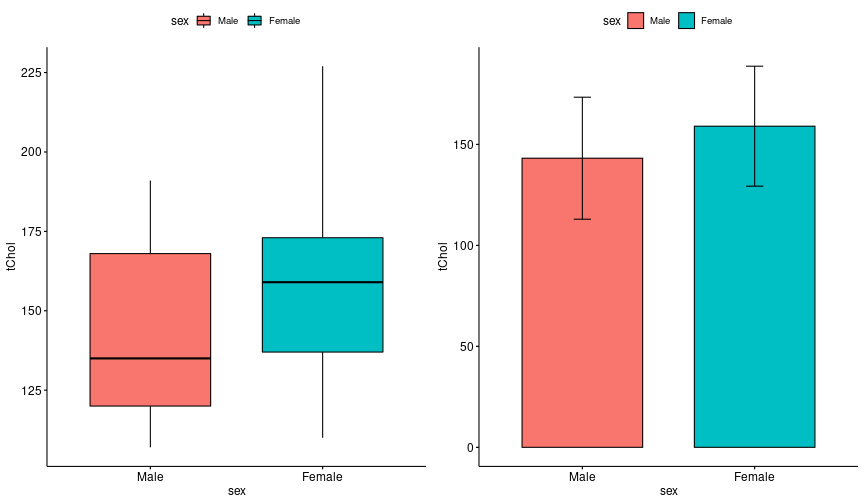
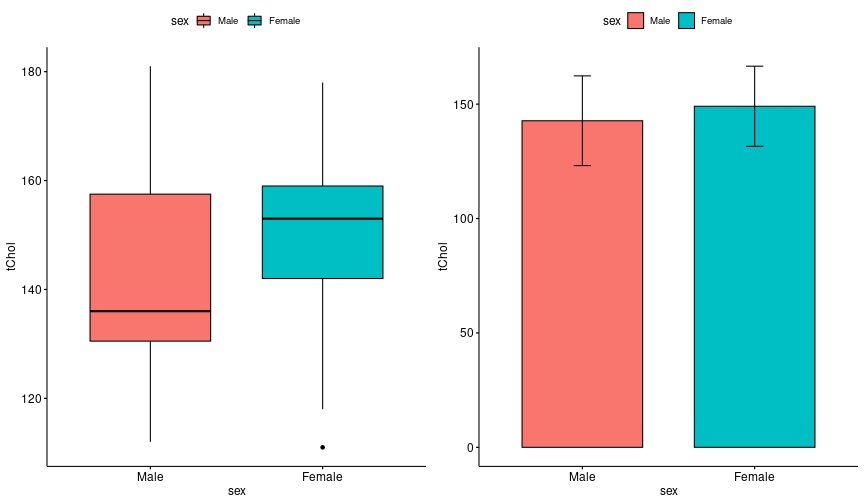
update

diff --git a/docs/statreview/index.html b/docs/statreview/index.html
@@ -139,9 +139,36 @@ class: center, middle
 SCI 논문 200건 지원
 ]
 &lt;center&gt;
-&lt;img src="https://jinseob2kim.github.io/lecture-general/cdmkdh/paper.jpg" width=50%&gt;&lt;/a&gt;
+&lt;img src="paper.png" width=80%&gt;&lt;/a&gt;
 &lt;/center&gt;
 
+---
+# R&amp;D, 지원사업 
+
+.large[
+- 창업도약패키지 
+
+- 과기정통부 R&amp;D: 공개SW 통계패키지 개발
+
+- 심평원 CDM 변환용역
+
+]
+
+
+---
+# R&amp;D: stargarten
+
+.large[
+총괄책임자
+
+- with 파이디지털헬스케어, 앤틀러
+
+]
+
+&lt;center&gt;
+&lt;img src="https://jinseob2kim.github.io/lecture-general/APPFGH2022/statgarten.png
+" width=80%&gt;&lt;/a&gt;
+&lt;/center&gt;
 
 
 ---
@@ -179,8 +206,8 @@ https://www.evanmiller.org/ab-testing/t-test.html 에서 바로 가능.
 
 ---
 
-<div id="htmlwidget-748c9da295c3f9edbd53" style="width:100%;height:auto;" class="datatables html-widget"></div>
-<script type="application/json" data-for="htmlwidget-748c9da295c3f9edbd53">{"x":{"filter":"none","vertical":false,"caption":"<caption>data.t: sex and total cholesterol<\/caption>","data":[["person 1","person 2","person 3","person 4","person 5","person 6","person 7","person 8","person 9","person 10","person 11","person 12","person 13","person 14","person 15","person 16","person 17","person 18","person 19","person 20","person 21","person 22","person 23","person 24","person 25","person 26","person 27","person 28","person 29","person 30"],["Male","Male","Female","Female","Male","Male","Female","Male","Female","Female","Female","Male","Female","Female","Female","Female","Female","Female","Male","Female","Male","Female","Male","Male","Male","Male","Male","Female","Female","Female"],[120,191,137,227,168,107,159,145,182,188,173,173,162,137,110,127,153,168,134,161,123,144,187,107,162,109,135,131,140,204]],"container":"<table class=\"display\">\n  <thead>\n    <tr>\n      <th> <\/th>\n      <th>sex<\/th>\n      <th>tChol<\/th>\n    <\/tr>\n  <\/thead>\n<\/table>","options":{"columnDefs":[{"className":"dt-right","targets":2},{"orderable":false,"targets":0}],"order":[],"autoWidth":false,"orderClasses":false}},"evals":[],"jsHooks":[]}</script>
+<div id="htmlwidget-43b0385de334835fd170" style="width:100%;height:auto;" class="datatables html-widget"></div>
+<script type="application/json" data-for="htmlwidget-43b0385de334835fd170">{"x":{"filter":"none","vertical":false,"caption":"<caption>data.t: sex and total cholesterol<\/caption>","data":[["person 1","person 2","person 3","person 4","person 5","person 6","person 7","person 8","person 9","person 10","person 11","person 12","person 13","person 14","person 15","person 16","person 17","person 18","person 19","person 20","person 21","person 22","person 23","person 24","person 25","person 26","person 27","person 28","person 29","person 30"],["Male","Male","Female","Male","Male","Female","Female","Female","Female","Female","Female","Female","Male","Female","Male","Female","Male","Female","Male","Female","Female","Male","Male","Male","Female","Male","Male","Male","Male","Female"],[112,125,153,127,135,140,137,150,118,155,163,178,116,156,135,111,134,158,154,166,144,181,164,164,160,152,161,145,136,147]],"container":"<table class=\"display\">\n  <thead>\n    <tr>\n      <th> <\/th>\n      <th>sex<\/th>\n      <th>tChol<\/th>\n    <\/tr>\n  <\/thead>\n<\/table>","options":{"columnDefs":[{"className":"dt-right","targets":2},{"orderable":false,"targets":0}],"order":[],"autoWidth":false,"orderClasses":false}},"evals":[],"jsHooks":[]}</script>
 
 ---
 
@@ -195,17 +222,17 @@ nev.ttest
 ## 	Welch Two Sample t-test
 ## 
 ## data:  tChol by sex
-## t = 1.4342, df = 25.743, p-value = 0.1635
+## t = 0.93323, df = 27.646, p-value = 0.3588
 ## alternative hypothesis: true difference in means between group Female and group Male is not equal to 0
 ## 95 percent confidence interval:
-##  -6.875538 38.567845
+##  -7.576188 20.242854
 ## sample estimates:
 ## mean in group Female   mean in group Male 
-##             159.0000             143.1538
+##             149.0667             142.7333
 ```
 
 .large[
-여자의 평균 콜레스테롤 값은 159, 남자는 143.2 이고 `\(p\)`-value는 0.164  
+여자의 평균 콜레스테롤 값은 149.1, 남자는 142.7 이고 `\(p\)`-value는 0.359  
 
 ]
 
@@ -225,17 +252,17 @@ ev.ttest
 ## 	Two Sample t-test
 ## 
 ## data:  tChol by sex
-## t = 1.4376, df = 28, p-value = 0.1616
+## t = 0.93323, df = 28, p-value = 0.3587
 ## alternative hypothesis: true difference in means between group Female and group Male is not equal to 0
 ## 95 percent confidence interval:
-##  -6.732062 38.424370
+##  -7.568171 20.234837
 ## sample estimates:
 ## mean in group Female   mean in group Male 
-##             159.0000             143.1538
+##             149.0667             142.7333
 ```
 
 
-앞서는 **Welch t-test** 였는데 이름이 바뀐 것을 확인할 수 있고 `\(p\)`-value도 0.162로 다름. 
+앞서는 **Welch t-test** 였는데 이름이 바뀐 것을 확인할 수 있고 `\(p\)`-value도 0.359로 다름. 
 - 특별한 경우가 아니고서야 위험한 등분산가정을 할 필요가 없음.   
 
 - **R** 에서 디폴트도 `F` 임.
@@ -291,7 +318,7 @@ res.wilcox
 ## 	Wilcoxon rank sum test with continuity correction
 ## 
 ## data:  tChol by sex
-## W = 142.5, p-value = 0.1871
+## W = 138, p-value = 0.2997
 ## alternative hypothesis: true location shift is not equal to 0
 ```
 
@@ -321,8 +348,8 @@ res.wilcox
 
 ---
 
-<div id="htmlwidget-b308ca5761c5125791c1" style="width:100%;height:auto;" class="datatables html-widget"></div>
-<script type="application/json" data-for="htmlwidget-b308ca5761c5125791c1">{"x":{"filter":"none","vertical":false,"caption":"<caption>data.t: group and total cholesterol<\/caption>","data":[["person 1","person 2","person 3","person 4","person 5","person 6","person 7","person 8","person 9","person 10","person 11","person 12","person 13","person 14","person 15","person 16","person 17","person 18","person 19","person 20","person 21","person 22","person 23","person 24","person 25","person 26","person 27","person 28","person 29","person 30"],["C","C","C","B","C","B","B","B","C","A","B","B","A","B","C","A","C","C","A","A","A","A","C","B","C","B","A","B","C","B"],[148,126,128,144,140,117,147,182,146,115,125,171,140,111,132,146,177,145,160,53,127,159,113,163,174,145,187,122,162,162]],"container":"<table class=\"display\">\n  <thead>\n    <tr>\n      <th> <\/th>\n      <th>group<\/th>\n      <th>tChol<\/th>\n    <\/tr>\n  <\/thead>\n<\/table>","options":{"columnDefs":[{"className":"dt-right","targets":2},{"orderable":false,"targets":0}],"order":[],"autoWidth":false,"orderClasses":false}},"evals":[],"jsHooks":[]}</script>
+<div id="htmlwidget-53086e0eb8b7b12d7d90" style="width:100%;height:auto;" class="datatables html-widget"></div>
+<script type="application/json" data-for="htmlwidget-53086e0eb8b7b12d7d90">{"x":{"filter":"none","vertical":false,"caption":"<caption>data.t: group and total cholesterol<\/caption>","data":[["person 1","person 2","person 3","person 4","person 5","person 6","person 7","person 8","person 9","person 10","person 11","person 12","person 13","person 14","person 15","person 16","person 17","person 18","person 19","person 20","person 21","person 22","person 23","person 24","person 25","person 26","person 27","person 28","person 29","person 30"],["C","C","C","B","C","B","B","B","C","A","B","B","A","B","C","A","C","C","A","A","A","A","C","B","C","B","A","B","C","B"],[148,126,128,144,140,117,147,182,146,115,125,171,140,111,132,146,177,145,160,53,127,159,113,163,174,145,187,122,162,162]],"container":"<table class=\"display\">\n  <thead>\n    <tr>\n      <th> <\/th>\n      <th>group<\/th>\n      <th>tChol<\/th>\n    <\/tr>\n  <\/thead>\n<\/table>","options":{"columnDefs":[{"className":"dt-right","targets":2},{"orderable":false,"targets":0}],"order":[],"autoWidth":false,"orderClasses":false}},"evals":[],"jsHooks":[]}</script>
 
 ---
 
@@ -419,8 +446,8 @@ class: center, middle
 
 ---
 
-<div id="htmlwidget-07b102da000a29c49717" style="width:100%;height:auto;" class="datatables html-widget"></div>
-<script type="application/json" data-for="htmlwidget-07b102da000a29c49717">{"x":{"filter":"none","vertical":false,"caption":"<caption>data.chi: HTN &amp; DM medication<\/caption>","data":[["person 1","person 2","person 3","person 4","person 5","person 6","person 7","person 8","person 9","person 10","person 11","person 12","person 13","person 14","person 15","person 16","person 17","person 18","person 19","person 20","person 21","person 22","person 23","person 24","person 25","person 26","person 27","person 28","person 29","person 30","person 31","person 32","person 33","person 34","person 35","person 36","person 37","person 38","person 39","person 40","person 41","person 42","person 43","person 44","person 45","person 46","person 47","person 48","person 49","person 50"],[1,0,0,0,1,1,0,0,0,0,0,0,0,1,1,0,1,0,0,0,1,0,0,0,0,1,1,0,0,1,0,1,0,0,0,1,1,0,0,1,1,1,1,1,0,1,1,1,0,1],[0,0,1,1,0,0,0,0,1,1,0,0,1,1,0,1,0,0,0,0,1,0,1,0,0,0,0,0,1,0,0,1,1,0,0,1,1,1,1,0,1,1,0,0,1,0,0,1,1,0]],"container":"<table class=\"display\">\n  <thead>\n    <tr>\n      <th> <\/th>\n      <th>HTN_medi<\/th>\n      <th>DM_medi<\/th>\n    <\/tr>\n  <\/thead>\n<\/table>","options":{"columnDefs":[{"className":"dt-right","targets":[1,2]},{"orderable":false,"targets":0}],"order":[],"autoWidth":false,"orderClasses":false}},"evals":[],"jsHooks":[]}</script>
+<div id="htmlwidget-68c3e8110c21981ed889" style="width:100%;height:auto;" class="datatables html-widget"></div>
+<script type="application/json" data-for="htmlwidget-68c3e8110c21981ed889">{"x":{"filter":"none","vertical":false,"caption":"<caption>data.chi: HTN &amp; DM medication<\/caption>","data":[["person 1","person 2","person 3","person 4","person 5","person 6","person 7","person 8","person 9","person 10","person 11","person 12","person 13","person 14","person 15","person 16","person 17","person 18","person 19","person 20","person 21","person 22","person 23","person 24","person 25","person 26","person 27","person 28","person 29","person 30","person 31","person 32","person 33","person 34","person 35","person 36","person 37","person 38","person 39","person 40","person 41","person 42","person 43","person 44","person 45","person 46","person 47","person 48","person 49","person 50"],[1,0,0,0,1,1,0,0,0,0,0,0,0,1,1,0,1,0,0,0,1,0,0,0,0,1,1,0,0,1,0,1,0,0,0,1,1,0,0,1,1,1,1,1,0,1,1,1,0,1],[0,0,1,1,0,0,0,0,1,1,0,0,1,1,0,1,0,0,0,0,1,0,1,0,0,0,0,0,1,0,0,1,1,0,0,1,1,1,1,0,1,1,0,0,1,0,0,1,1,0]],"container":"<table class=\"display\">\n  <thead>\n    <tr>\n      <th> <\/th>\n      <th>HTN_medi<\/th>\n      <th>DM_medi<\/th>\n    <\/tr>\n  <\/thead>\n<\/table>","options":{"columnDefs":[{"className":"dt-right","targets":[1,2]},{"orderable":false,"targets":0}],"order":[],"autoWidth":false,"orderClasses":false}},"evals":[],"jsHooks":[]}</script>
 
 
 ---
@@ -469,8 +496,8 @@ res.chi
 
 ---
 
-<div id="htmlwidget-57d7243368cde6d9a701" style="width:100%;height:auto;" class="datatables html-widget"></div>
-<script type="application/json" data-for="htmlwidget-57d7243368cde6d9a701">{"x":{"filter":"none","vertical":false,"caption":"<caption>data.fisher: HTN &amp; DM medication<\/caption>","data":[["person 1","person 2","person 3","person 4","person 5","person 6","person 7","person 8","person 9","person 10","person 11","person 12","person 13","person 14","person 15","person 16","person 17","person 18","person 19","person 20","person 21","person 22","person 23","person 24","person 25","person 26","person 27","person 28","person 29","person 30","person 31","person 32","person 33","person 34","person 35","person 36","person 37","person 38","person 39","person 40","person 41","person 42","person 43","person 44","person 45","person 46","person 47","person 48","person 49","person 50"],[1,0,0,0,1,1,0,0,0,0,0,0,0,0,1,0,0,0,0,0,1,0,0,0,0,1,0,0,0,1,0,0,0,0,0,1,0,0,0,0,0,1,0,0,0,0,1,0,0,1],[0,0,0,1,0,0,0,0,1,0,0,0,0,1,0,1,0,0,0,0,0,0,0,0,0,0,0,0,1,0,0,0,0,0,0,1,1,1,1,0,0,1,0,0,0,0,0,0,0,0]],"container":"<table class=\"display\">\n  <thead>\n    <tr>\n      <th> <\/th>\n      <th>HTN_medi<\/th>\n      <th>DM_medi<\/th>\n    <\/tr>\n  <\/thead>\n<\/table>","options":{"columnDefs":[{"className":"dt-right","targets":[1,2]},{"orderable":false,"targets":0}],"order":[],"autoWidth":false,"orderClasses":false}},"evals":[],"jsHooks":[]}</script>
+<div id="htmlwidget-7db472bf2896f2aaadd5" style="width:100%;height:auto;" class="datatables html-widget"></div>
+<script type="application/json" data-for="htmlwidget-7db472bf2896f2aaadd5">{"x":{"filter":"none","vertical":false,"caption":"<caption>data.fisher: HTN &amp; DM medication<\/caption>","data":[["person 1","person 2","person 3","person 4","person 5","person 6","person 7","person 8","person 9","person 10","person 11","person 12","person 13","person 14","person 15","person 16","person 17","person 18","person 19","person 20","person 21","person 22","person 23","person 24","person 25","person 26","person 27","person 28","person 29","person 30","person 31","person 32","person 33","person 34","person 35","person 36","person 37","person 38","person 39","person 40","person 41","person 42","person 43","person 44","person 45","person 46","person 47","person 48","person 49","person 50"],[1,0,0,0,1,1,0,0,0,0,0,0,0,0,1,0,0,0,0,0,1,0,0,0,0,1,0,0,0,1,0,0,0,0,0,1,0,0,0,0,0,1,0,0,0,0,1,0,0,1],[0,0,0,1,0,0,0,0,1,0,0,0,0,1,0,1,0,0,0,0,0,0,0,0,0,0,0,0,1,0,0,0,0,0,0,1,1,1,1,0,0,1,0,0,0,0,0,0,0,0]],"container":"<table class=\"display\">\n  <thead>\n    <tr>\n      <th> <\/th>\n      <th>HTN_medi<\/th>\n      <th>DM_medi<\/th>\n    <\/tr>\n  <\/thead>\n<\/table>","options":{"columnDefs":[{"className":"dt-right","targets":[1,2]},{"orderable":false,"targets":0}],"order":[],"autoWidth":false,"orderClasses":false}},"evals":[],"jsHooks":[]}</script>
 
 ---
 
@@ -572,8 +599,8 @@ class: center, middle
 
 
 ---
-<div id="htmlwidget-18430f66b8f801e89858" style="width:100%;height:auto;" class="datatables html-widget"></div>
-<script type="application/json" data-for="htmlwidget-18430f66b8f801e89858">{"x":{"filter":"none","vertical":false,"caption":"<caption>data.pt: systolic blood pressure measured by hand &amp; machine<\/caption>","data":[["person 1","person 2","person 3","person 4","person 5","person 6","person 7","person 8","person 9","person 10","person 11","person 12","person 13","person 14","person 15","person 16","person 17","person 18","person 19","person 20","person 21","person 22","person 23","person 24","person 25","person 26","person 27","person 28","person 29","person 30"],[128,128,120,119,124,130,127,131,127,120,119,131,129,129,125,129,126,132,123,111,125,125,119,112,129,126,125,128,125,128],[128,119,119,126,118,124,128,129,117,130,123,128,128,133,127,126,127,119,122,125,124,127,128,126,127,123,129,123,142,123]],"container":"<table class=\"display\">\n  <thead>\n    <tr>\n      <th> <\/th>\n      <th>SBP_hand<\/th>\n      <th>SBP_machine<\/th>\n    <\/tr>\n  <\/thead>\n<\/table>","options":{"columnDefs":[{"className":"dt-right","targets":[1,2]},{"orderable":false,"targets":0}],"order":[],"autoWidth":false,"orderClasses":false}},"evals":[],"jsHooks":[]}</script>
+<div id="htmlwidget-665bffd1af0a11531670" style="width:100%;height:auto;" class="datatables html-widget"></div>
+<script type="application/json" data-for="htmlwidget-665bffd1af0a11531670">{"x":{"filter":"none","vertical":false,"caption":"<caption>data.pt: systolic blood pressure measured by hand &amp; machine<\/caption>","data":[["person 1","person 2","person 3","person 4","person 5","person 6","person 7","person 8","person 9","person 10","person 11","person 12","person 13","person 14","person 15","person 16","person 17","person 18","person 19","person 20","person 21","person 22","person 23","person 24","person 25","person 26","person 27","person 28","person 29","person 30"],[128,128,120,119,124,130,127,131,127,120,119,131,129,129,125,129,126,132,123,111,125,125,119,112,129,126,125,128,125,128],[128,119,119,126,118,124,128,129,117,130,123,128,128,133,127,126,127,119,122,125,124,127,128,126,127,123,129,123,142,123]],"container":"<table class=\"display\">\n  <thead>\n    <tr>\n      <th> <\/th>\n      <th>SBP_hand<\/th>\n      <th>SBP_machine<\/th>\n    <\/tr>\n  <\/thead>\n<\/table>","options":{"columnDefs":[{"className":"dt-right","targets":[1,2]},{"orderable":false,"targets":0}],"order":[],"autoWidth":false,"orderClasses":false}},"evals":[],"jsHooks":[]}</script>
 
 
 ---
@@ -671,8 +698,8 @@ class: center, middle
 
 ---
 
-<div id="htmlwidget-1cad792f2475b0941331" style="width:100%;height:auto;" class="datatables html-widget"></div>
-<script type="application/json" data-for="htmlwidget-1cad792f2475b0941331">{"x":{"filter":"none","vertical":false,"caption":"<caption>data.mc: Abdominal pain - before &amp; after<\/caption>","data":[["person 1","person 2","person 3","person 4","person 5","person 6","person 7","person 8","person 9","person 10","person 11","person 12","person 13","person 14","person 15","person 16","person 17","person 18","person 19","person 20","person 21","person 22","person 23","person 24","person 25","person 26","person 27","person 28","person 29","person 30"],[0,1,0,0,0,1,0,0,0,0,1,1,0,1,0,1,1,0,0,0,1,1,1,0,1,1,0,1,0,1],[0,1,1,0,1,0,0,0,0,1,0,0,0,1,1,0,1,0,1,1,1,0,0,1,0,0,0,1,1,0]],"container":"<table class=\"display\">\n  <thead>\n    <tr>\n      <th> <\/th>\n      <th>Pain_before<\/th>\n      <th>Pain_after<\/th>\n    <\/tr>\n  <\/thead>\n<\/table>","options":{"columnDefs":[{"className":"dt-right","targets":[1,2]},{"orderable":false,"targets":0}],"order":[],"autoWidth":false,"orderClasses":false}},"evals":[],"jsHooks":[]}</script>
+<div id="htmlwidget-04dbed8c400977963508" style="width:100%;height:auto;" class="datatables html-widget"></div>
+<script type="application/json" data-for="htmlwidget-04dbed8c400977963508">{"x":{"filter":"none","vertical":false,"caption":"<caption>data.mc: Abdominal pain - before &amp; after<\/caption>","data":[["person 1","person 2","person 3","person 4","person 5","person 6","person 7","person 8","person 9","person 10","person 11","person 12","person 13","person 14","person 15","person 16","person 17","person 18","person 19","person 20","person 21","person 22","person 23","person 24","person 25","person 26","person 27","person 28","person 29","person 30"],[0,1,0,0,0,1,0,0,0,0,1,1,0,1,0,1,1,0,0,0,1,1,1,0,1,1,0,1,0,1],[0,1,1,0,1,0,0,0,0,1,0,0,0,1,1,0,1,0,1,1,1,0,0,1,0,0,0,1,1,0]],"container":"<table class=\"display\">\n  <thead>\n    <tr>\n      <th> <\/th>\n      <th>Pain_before<\/th>\n      <th>Pain_after<\/th>\n    <\/tr>\n  <\/thead>\n<\/table>","options":{"columnDefs":[{"className":"dt-right","targets":[1,2]},{"orderable":false,"targets":0}],"order":[],"autoWidth":false,"orderClasses":false}},"evals":[],"jsHooks":[]}</script>
 
 ---
 
@@ -960,8 +987,8 @@ ANOVA p-value 는 **rx 중 튀는 것이 있는지?** 를 통합평가.
 
 ---
 
-<div id="htmlwidget-bf1b3628490d97f3b291" style="width:100%;height:auto;" class="datatables html-widget"></div>
-<script type="application/json" data-for="htmlwidget-bf1b3628490d97f3b291">{"x":{"filter":"none","vertical":false,"caption":"<caption>Linear regression predicting time\n<\/caption>","data":[["sex","age","rx: ref.=Obs","   Lev","   Lev+5FU","","No. of observations","R-squared","AIC value"],["13.93 (-72.26,100.12)","0.38 (-3.22,3.99)",null,"24.66 (-79.49,128.82)","271.07 (166.41,375.74)","","1858","0.0169","30717.803"],["0.751","0.835",null,"0.643","&lt; 0.001","","","",""],["32.67 (-53.21,118.55)","0.37 (-3.21,3.95)",null,"22.98 (-81.3,127.27)","273.05 (168.19,377.9)","","","",""],["0.456","0.84",null,"0.666","&lt; 0.001","","","",""],["","",null,"","**",null,null,null,null]],"container":"<table class=\"display\">\n  <thead>\n    <tr>\n      <th> <\/th>\n      <th>crude coeff.(95%CI)<\/th>\n      <th>crude P value<\/th>\n      <th>adj. coeff.(95%CI)<\/th>\n      <th>adj. P value<\/th>\n      <th>sig<\/th>\n    <\/tr>\n  <\/thead>\n<\/table>","options":{"columnDefs":[{"visible":false,"targets":5},{"orderable":false,"targets":0}],"scrollX":true,"order":[],"autoWidth":false,"orderClasses":false,"rowCallback":"function(row, data, displayNum, displayIndex, dataIndex) {\nvar value=data[5]; $(row).css({'background-color':value == \"**\" ? \"yellow\" : null});\n}"}},"evals":["options.rowCallback"],"jsHooks":[]}</script>
+<div id="htmlwidget-6da6c35ebb9136bf7287" style="width:100%;height:auto;" class="datatables html-widget"></div>
+<script type="application/json" data-for="htmlwidget-6da6c35ebb9136bf7287">{"x":{"filter":"none","vertical":false,"caption":"<caption>Linear regression predicting time\n<\/caption>","data":[["sex","age","rx: ref.=Obs","   Lev","   Lev+5FU","","No. of observations","R-squared","AIC value"],["13.93 (-72.26,100.12)","0.38 (-3.22,3.99)",null,"24.66 (-79.49,128.82)","271.07 (166.41,375.74)","","1858","0.0169","30717.803"],["0.751","0.835",null,"0.643","&lt; 0.001","","","",""],["32.67 (-53.21,118.55)","0.37 (-3.21,3.95)",null,"22.98 (-81.3,127.27)","273.05 (168.19,377.9)","","","",""],["0.456","0.84",null,"0.666","&lt; 0.001","","","",""],["","",null,"","**",null,null,null,null]],"container":"<table class=\"display\">\n  <thead>\n    <tr>\n      <th> <\/th>\n      <th>crude coeff.(95%CI)<\/th>\n      <th>crude P value<\/th>\n      <th>adj. coeff.(95%CI)<\/th>\n      <th>adj. P value<\/th>\n      <th>sig<\/th>\n    <\/tr>\n  <\/thead>\n<\/table>","options":{"columnDefs":[{"visible":false,"targets":5},{"orderable":false,"targets":0}],"scrollX":true,"order":[],"autoWidth":false,"orderClasses":false,"rowCallback":"function(row, data, displayNum, displayIndex, dataIndex) {\nvar value=data[5]; $(row).css({'background-color':value == \"**\" ? \"yellow\" : null});\n}"}},"evals":["options.rowCallback"],"jsHooks":[]}</script>
 
 
 ---
@@ -1038,8 +1065,8 @@ $$
 
 ---
 
-<div id="htmlwidget-f02bac0ef65f474cea9d" style="width:100%;height:auto;" class="datatables html-widget"></div>
-<script type="application/json" data-for="htmlwidget-f02bac0ef65f474cea9d">{"x":{"filter":"none","vertical":false,"caption":"<caption>Logistic regression predicting status\n<\/caption>","data":[["sex","age","rx: ref.=Obs","   Lev","   Lev+5FU","","No. of observations","AIC value"],["0.97 (0.81,1.17)","1 (0.99,1)",null,"0.96 (0.77,1.2)","0.55 (0.44,0.68)","","1858","2549.4309"],["0.758","0.296",null,"0.709","&lt; 0.001","","",""],["0.93 (0.77,1.12)","1 (0.99,1)",null,"0.96 (0.77,1.2)","0.54 (0.43,0.68)","","",""],["0.454","0.294",null,"0.747","&lt; 0.001","","",""],["","",null,"","**",null,null,null]],"container":"<table class=\"display\">\n  <thead>\n    <tr>\n      <th> <\/th>\n      <th>crude OR.(95%CI)<\/th>\n      <th>crude P value<\/th>\n      <th>adj. OR.(95%CI)<\/th>\n      <th>adj. P value<\/th>\n      <th>sig<\/th>\n    <\/tr>\n  <\/thead>\n<\/table>","options":{"columnDefs":[{"visible":false,"targets":5},{"orderable":false,"targets":0}],"scrollX":true,"order":[],"autoWidth":false,"orderClasses":false,"rowCallback":"function(row, data, displayNum, displayIndex, dataIndex) {\nvar value=data[5]; $(row).css({'background-color':value == \"**\" ? \"yellow\" : null});\n}"}},"evals":["options.rowCallback"],"jsHooks":[]}</script>
+<div id="htmlwidget-b17a500cb2e31e832421" style="width:100%;height:auto;" class="datatables html-widget"></div>
+<script type="application/json" data-for="htmlwidget-b17a500cb2e31e832421">{"x":{"filter":"none","vertical":false,"caption":"<caption>Logistic regression predicting status\n<\/caption>","data":[["sex","age","rx: ref.=Obs","   Lev","   Lev+5FU","","No. of observations","AIC value"],["0.97 (0.81,1.17)","1 (0.99,1)",null,"0.96 (0.77,1.2)","0.55 (0.44,0.68)","","1858","2549.4309"],["0.758","0.296",null,"0.709","&lt; 0.001","","",""],["0.93 (0.77,1.12)","1 (0.99,1)",null,"0.96 (0.77,1.2)","0.54 (0.43,0.68)","","",""],["0.454","0.294",null,"0.747","&lt; 0.001","","",""],["","",null,"","**",null,null,null]],"container":"<table class=\"display\">\n  <thead>\n    <tr>\n      <th> <\/th>\n      <th>crude OR.(95%CI)<\/th>\n      <th>crude P value<\/th>\n      <th>adj. OR.(95%CI)<\/th>\n      <th>adj. P value<\/th>\n      <th>sig<\/th>\n    <\/tr>\n  <\/thead>\n<\/table>","options":{"columnDefs":[{"visible":false,"targets":5},{"orderable":false,"targets":0}],"scrollX":true,"order":[],"autoWidth":false,"orderClasses":false,"rowCallback":"function(row, data, displayNum, displayIndex, dataIndex) {\nvar value=data[5]; $(row).css({'background-color':value == \"**\" ? \"yellow\" : null});\n}"}},"evals":["options.rowCallback"],"jsHooks":[]}</script>
 
 
 ---
@@ -2068,8 +2095,8 @@ Kaplan-meier 와 마찬가지로 구간별로 통계량을 계산.
 
 ---
 
-<div id="htmlwidget-d6bdc4b2fde5b2277588" style="width:100%;height:auto;" class="datatables html-widget"></div>
-<script type="application/json" data-for="htmlwidget-d6bdc4b2fde5b2277588">{"x":{"filter":"none","vertical":false,"caption":"<caption>Cox model on time ('time') to event ('status')<\/caption>","data":[["sex","age","rx: ref.=Obs","   Lev","   Lev+5FU",null,"No. of observations","No. of events"],["0.97 (0.85,1.1)","1 (0.99,1)",null,"0.98 (0.84,1.14)","0.64 (0.55,0.76)",null,"1858","920"],["0.61","0.382",null,"0.786","&lt; 0.001",null,null,null],["0.95 (0.84,1.08)","1 (0.99,1)",null,"0.98 (0.84,1.14)","0.64 (0.55,0.76)",null,null,null],["0.446","0.468",null,"0.811","&lt; 0.001",null,null,null],[null,null,null,null,"**",null,null,null]],"container":"<table class=\"display\">\n  <thead>\n    <tr>\n      <th> <\/th>\n      <th>crude HR(95%CI)<\/th>\n      <th>crude P value<\/th>\n      <th>adj. HR(95%CI)<\/th>\n      <th>adj. P value<\/th>\n      <th>sig<\/th>\n    <\/tr>\n  <\/thead>\n<\/table>","options":{"columnDefs":[{"visible":false,"targets":5},{"orderable":false,"targets":0}],"order":[],"autoWidth":false,"orderClasses":false,"rowCallback":"function(row, data, displayNum, displayIndex, dataIndex) {\nvar value=data[5]; $(row).css({'background-color':value == \"**\" ? \"yellow\" : null});\n}"}},"evals":["options.rowCallback"],"jsHooks":[]}</script>
+<div id="htmlwidget-e82a18e79e2dac4135d2" style="width:100%;height:auto;" class="datatables html-widget"></div>
+<script type="application/json" data-for="htmlwidget-e82a18e79e2dac4135d2">{"x":{"filter":"none","vertical":false,"caption":"<caption>Cox model on time ('time') to event ('status')<\/caption>","data":[["sex","age","rx: ref.=Obs","   Lev","   Lev+5FU",null,"No. of observations","No. of events"],["0.97 (0.85,1.1)","1 (0.99,1)",null,"0.98 (0.84,1.14)","0.64 (0.55,0.76)",null,"1858","920"],["0.61","0.382",null,"0.786","&lt; 0.001",null,null,null],["0.95 (0.84,1.08)","1 (0.99,1)",null,"0.98 (0.84,1.14)","0.64 (0.55,0.76)",null,null,null],["0.446","0.468",null,"0.811","&lt; 0.001",null,null,null],[null,null,null,null,"**",null,null,null]],"container":"<table class=\"display\">\n  <thead>\n    <tr>\n      <th> <\/th>\n      <th>crude HR(95%CI)<\/th>\n      <th>crude P value<\/th>\n      <th>adj. HR(95%CI)<\/th>\n      <th>adj. P value<\/th>\n      <th>sig<\/th>\n    <\/tr>\n  <\/thead>\n<\/table>","options":{"columnDefs":[{"visible":false,"targets":5},{"orderable":false,"targets":0}],"order":[],"autoWidth":false,"orderClasses":false,"rowCallback":"function(row, data, displayNum, displayIndex, dataIndex) {\nvar value=data[5]; $(row).css({'background-color':value == \"**\" ? \"yellow\" : null});\n}"}},"evals":["options.rowCallback"],"jsHooks":[]}</script>
 
 ---
 # 생존분석: 비례위험가정
